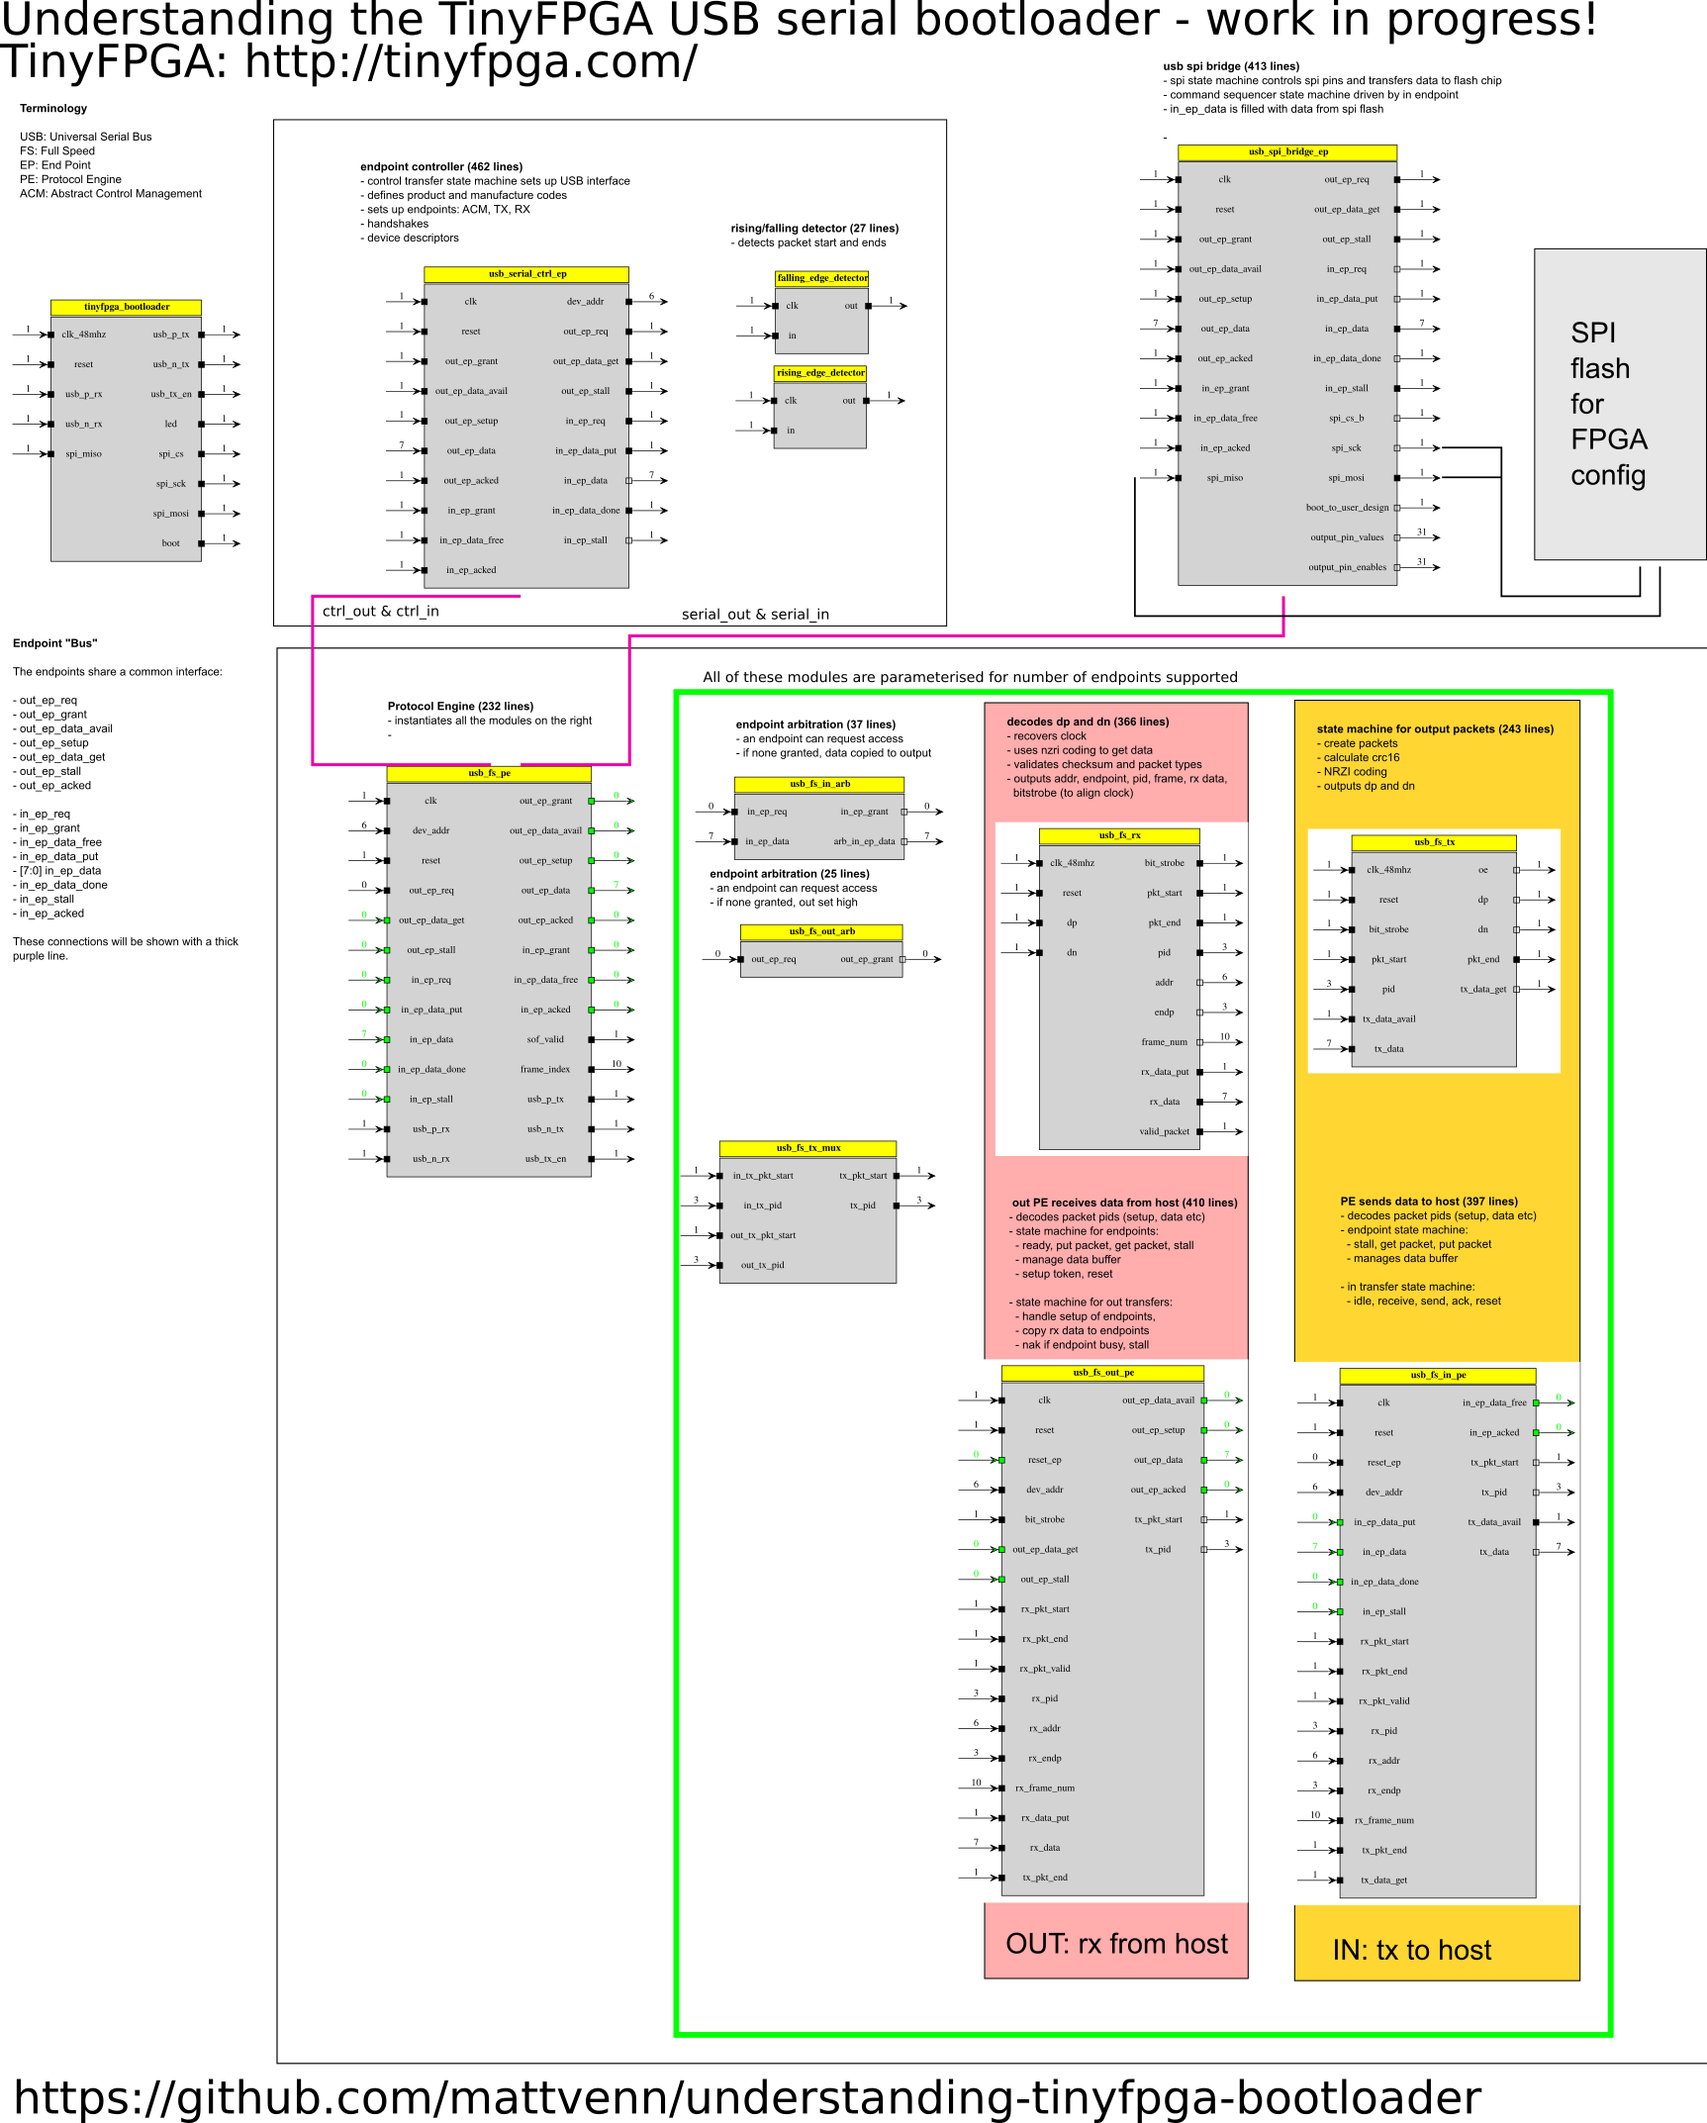
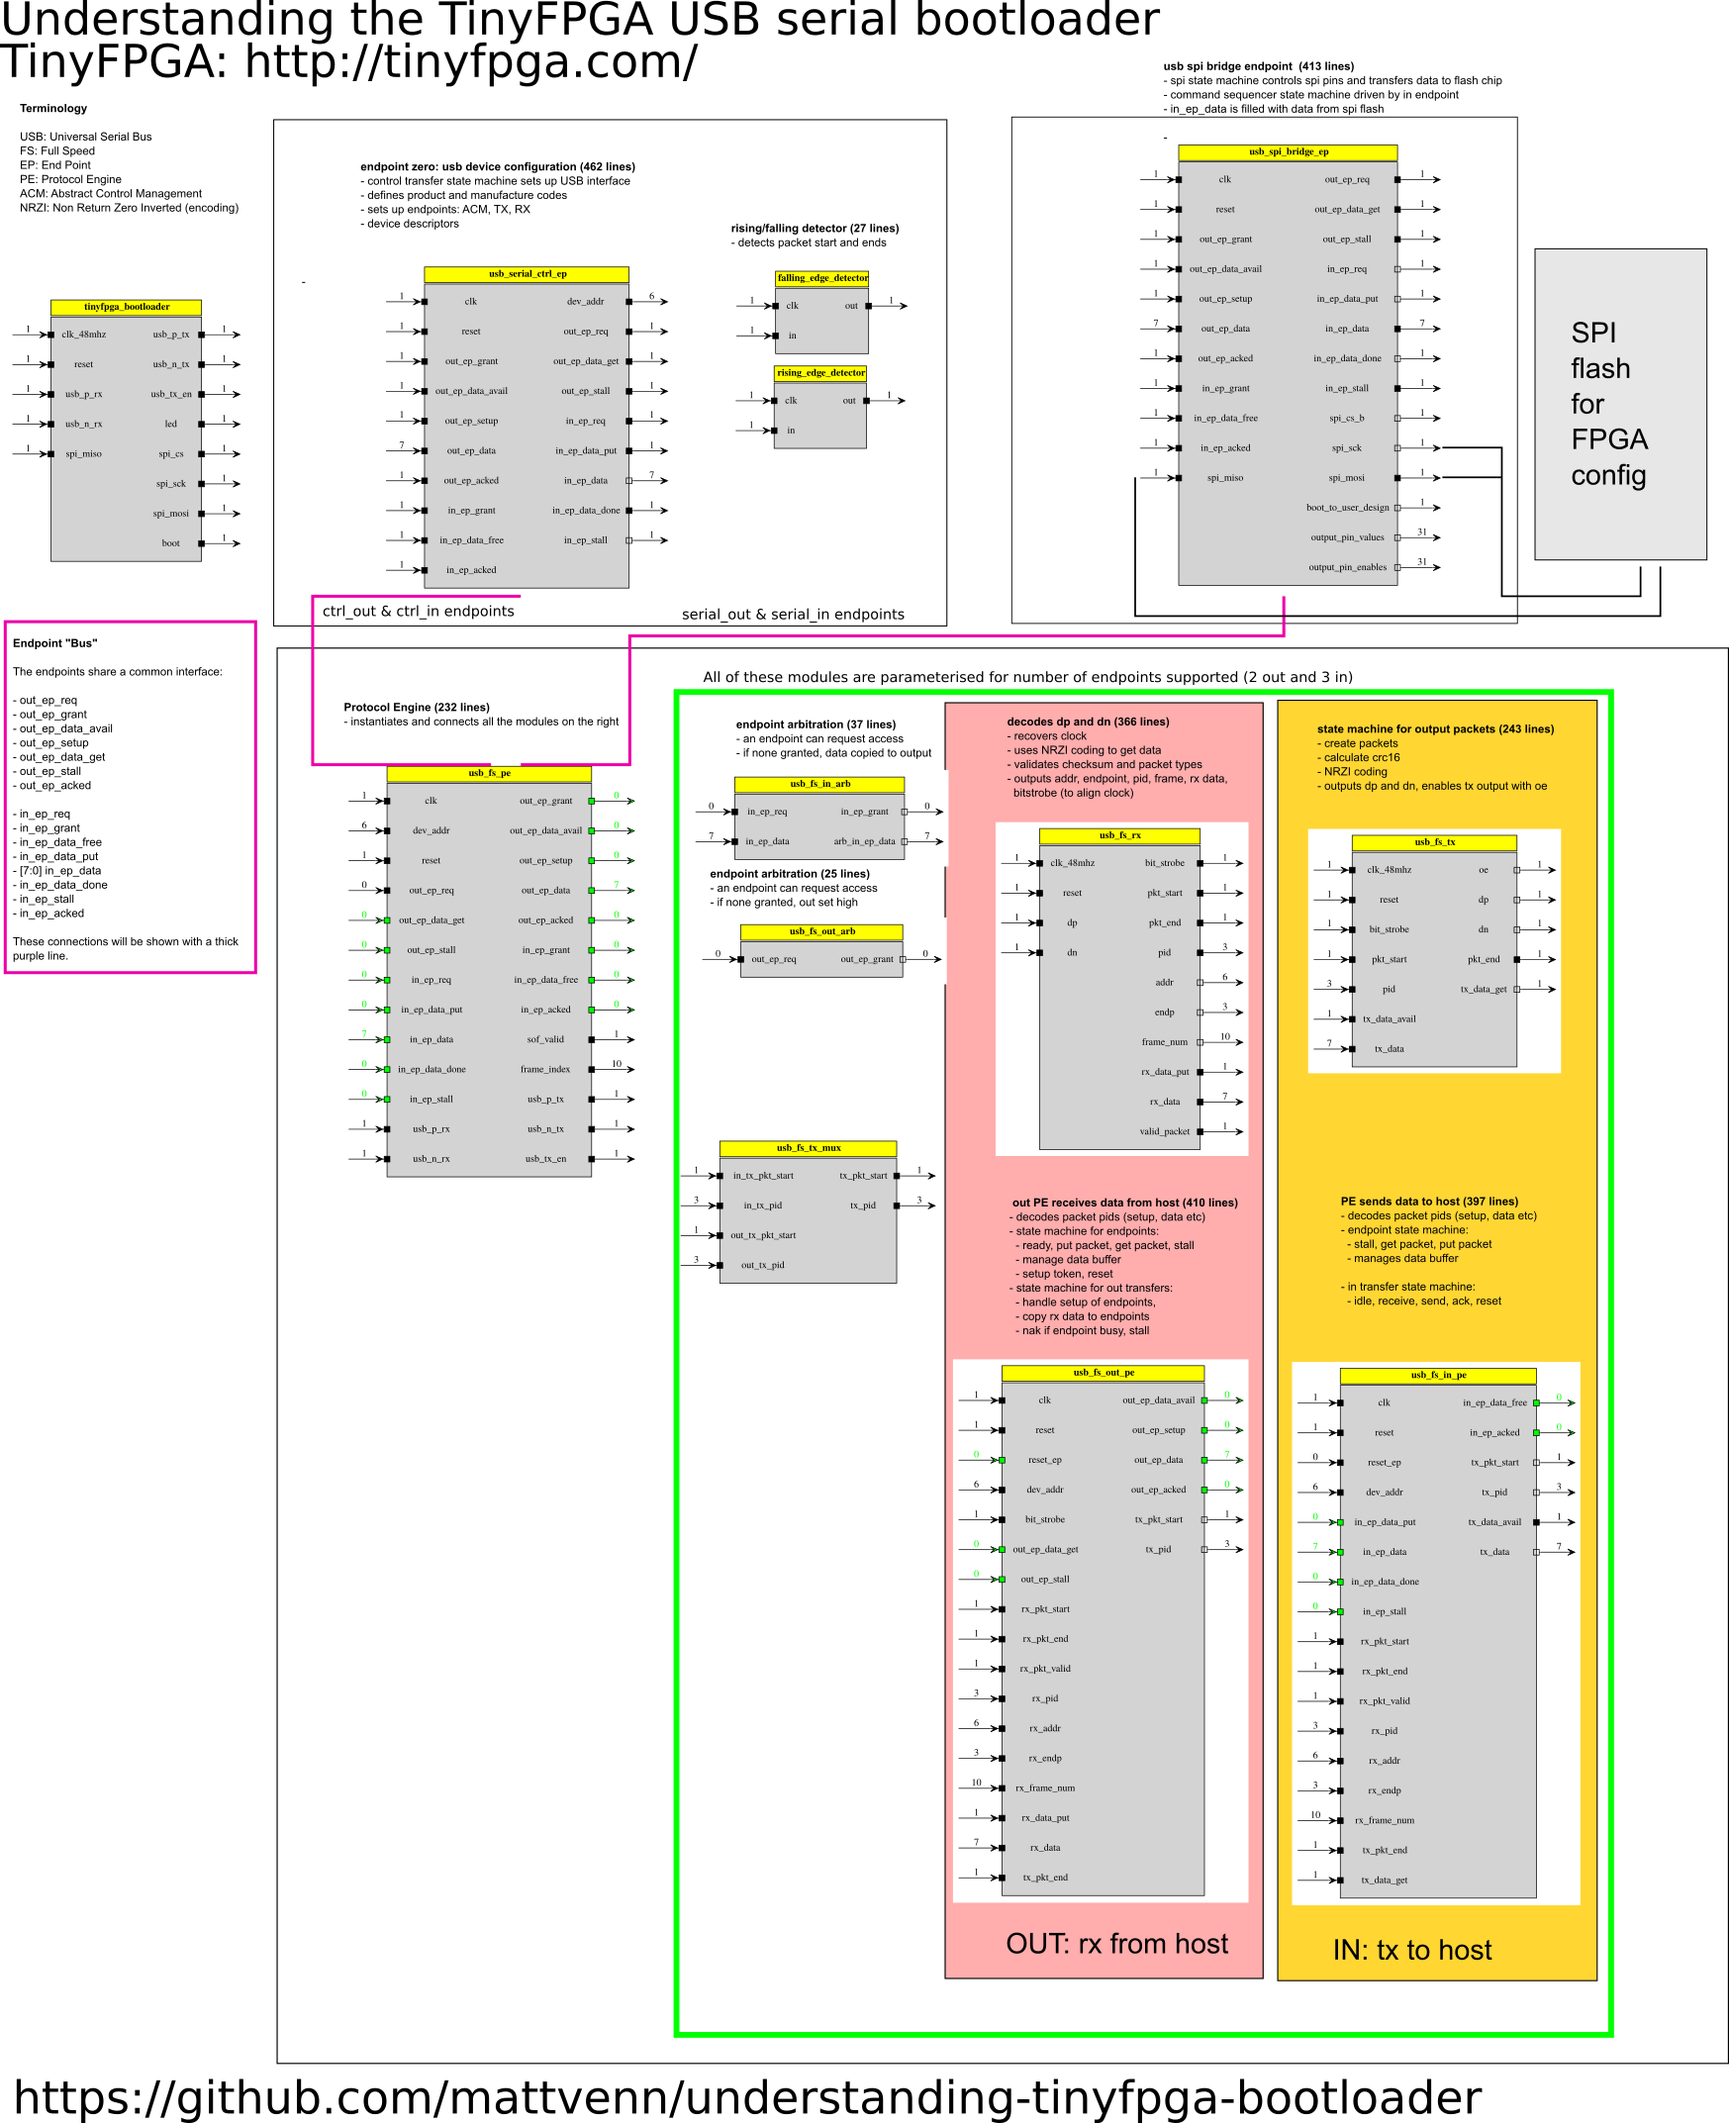
details added to readme, small changes to overview pic

diff --git a/README.md b/README.md
@@ -16,7 +16,7 @@ The bootloader repo is here https://github.com/tinyfpga/TinyFPGA-Bootloader
 
 # Aim
 
-Aim of the bootloader is to allow easy and cheap transmission of FPGA configuration files
+The aim of the bootloader is to allow easy and cheap transmission of FPGA configuration files
 over USB to get stored in FPGA connected SPI FLASH memory. Data is sent over an
 emulated serial port. 
 
@@ -25,51 +25,85 @@ On other boards a moderately expensive serial to usb chip
 ARM chip to provide USB comms. The FPGA configuration is stored on the ARM
 chip's EEPROM.
 
-# Overview
+# USB Overview
 
-USB is a very complex protocol, and implementing it all on a small FPGA would be
-difficult. However, by limiting the requirements it becomes more approachable.
+USB is host centric, all setup and data transfers are initiated by the host.
 
-Limitations of the bootloader:
+Data is transferred serially (the S in USB), on a differential pair: D+ and D-.
 
-* full speed (12MHz) - means the FPGA can communicate directly. High speed requires current drivers.
+When a new device is plugged in, the host detects this by monitoring the D+ and
+D- lines. The host will then configure the device.
+
+USB supports 4 transfer/endpoint types: control, interrupt, isochronous and bulk
+transfers. Control transfers are used for device setup on endpoint zero. 
+
+Endpoints exist only on the device, and are data sources or sinks.
+
+# Limitations of the bootloader
+
+USB is a complex, multi layered protocol, and implementing it all on a small FPGA would be
+difficult. However, by limiting the requirements to the application it becomes more approachable.
+
+* full speed (12MHz), High speed requires current drivers.
 * limited number of endpoints - configured with NUM_OUT_EPS and NUM_IN_EPS
-* 2 types of endpoint - control and serial.
-* after configuring is finished, don't support changes to things like baud and line encoding
-* limited data buffer length: set to 32 bytes - MAX_IN_PACKET_SIZE parameter
+* 3 types of endpoint - endpoint 0, CDC ACM and serial.
+* only support 2 of the 4 types of transfer: interrupt (control) and bulk (serial)
+* after initial configuration, don't support CDC ACM endpoint
+* limited data packet size: set to 32 bytes - MAX_IN_PACKET_SIZE parameter
 
-How it works:
+## Electrical
 
-The top module is tinyfpga_bootloader.v. It controls the LED and sets up the USB
-engine. It instaniates:
+![schematic](schematic.png)
 
-* the usb protocol engine - connected to the below pair of in and out endpoints
-* the usb serial and control endpoint (ctrl in and out endpoint)
-* the spi bridge (serial in and out endpoint)
+USB devices indicate their speed to the host by pulling either D+ or D- up to
+3.3v. Full speed devices like the TinyFPGABootloader need to pull up D+ to
+3.3v, low speed devices pull D- to 3.3v.
+
+In this case, the pull up is enabled by the bootloader and is never turned off.
+
+## How it works
+
+![overview](overview.png)
+
+The top module is bootloader.v. It sets up a 48MHz clock with the PLL, the warm boot
+functionality of the ICE40 and instantiates the tinyfpga_bootloader module: tinyfpga_bootloader.v.
+
+USB rx and tx pins are inout types, and data direction is handled by a usb_tx_en
+pin controlled by the USB protocol engine.
+
+The tinyfpga_bootloader module controls the LED and sets up the USB protocol
+engine. It instantiates:
+
+* endpoint 0
+* the SPI bridge
+* the USB protocol engine - connected to the above endpoints
+
+The endpoints (and addresses) are:
+
+out: serial (1), control (0)
+in: CDC ACM (2), serial (1), control (0)
+
+The CDC ACM endpoint is a fake one, set to deliver 0s to the host.
 
 The USB protocol engine is defined in usb_fs_pe.v. It handles the low level USB
-and ends up with endpoint interfaces.
-
-Endpoints can be thought of as buffers. They have a limited amount of space and
-need to be able to deal with running out of space or not having data to read.
+data and after data recovery and decoding sends and receives data to the endpoint interfaces.
 
 It uses a number of modules to:
 
-* decode and encode the data onto the wires, checksums: usb_fs_rx/tx
-* data transfer from/to endpoints: usb_fs_out/in_pe
-* endpoint arbitration:usb_fs_in/out_arb
+* decode and encode the data onto the wires (NRZI), checksums, data direction: usb_fs_rx/tx.v
+* data transfer from/to endpoints: usb_fs_out/in_pe.v
+* endpoint arbitration: usb_fs_in/out_arb.v
 
-USB is configured by the host communicating with endpoint id 0. The control transfer state machine
-in usb_serial_ctrl_ep.v sets up the USB device as an emulated serial port with 3 endpoints: 
+USB is configured by the host communicating with endpoint id 0. Endpoint 0
+functionality is handled by the state machine and ROM in usb_serial_ctrl_ep.v.
+It sets up the USB device as an emulated serial port with 3 endpoints:
 
-* ACM (would be used for configuring serial port)
-* TX
-* RX
-
-After configuration is finished only RX and TX endpoints are supported. 
+* ACM in (would be used for configuring serial port)
+* serial in
+* serial out
 
 The SPI memory controller is defined in usb_spi_bridge_ep.v. It is connected to
-the serial RX and TX endpoints for reading and writing the FLASH. It uses 2
+the serial in and out endpoints for reading and writing the FLASH. It uses 2
 state machines.
 
 The SPI state machine manages reading and writing to FLASH.
@@ -94,3 +128,4 @@ SPI MISO from FLASH is put straight into the serial_in endpoint.
 * consistent naming convention
 * parameterised (num endpoints and buffer data length)
 * great test suite
+* comments in the code link to the USB spec
